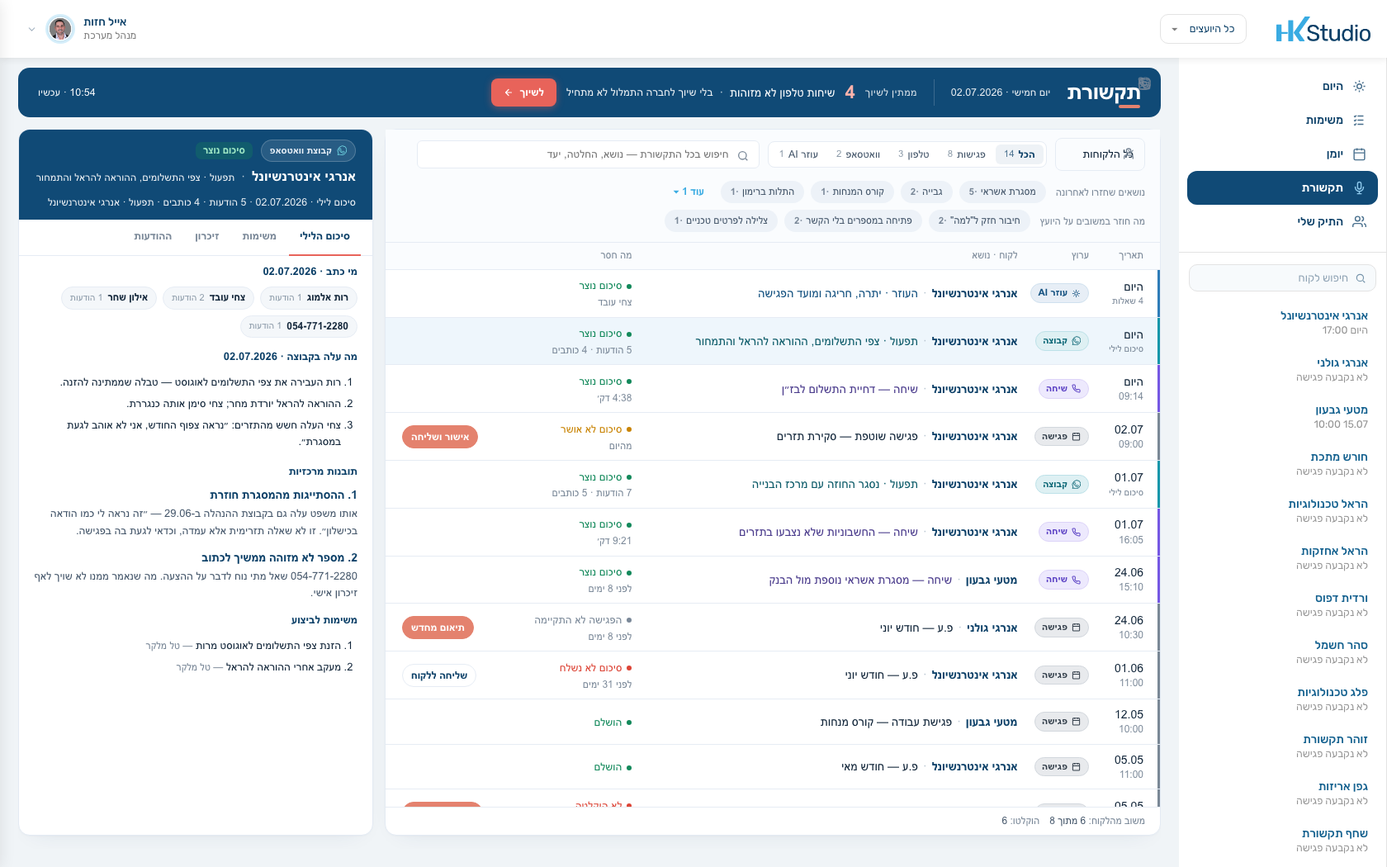
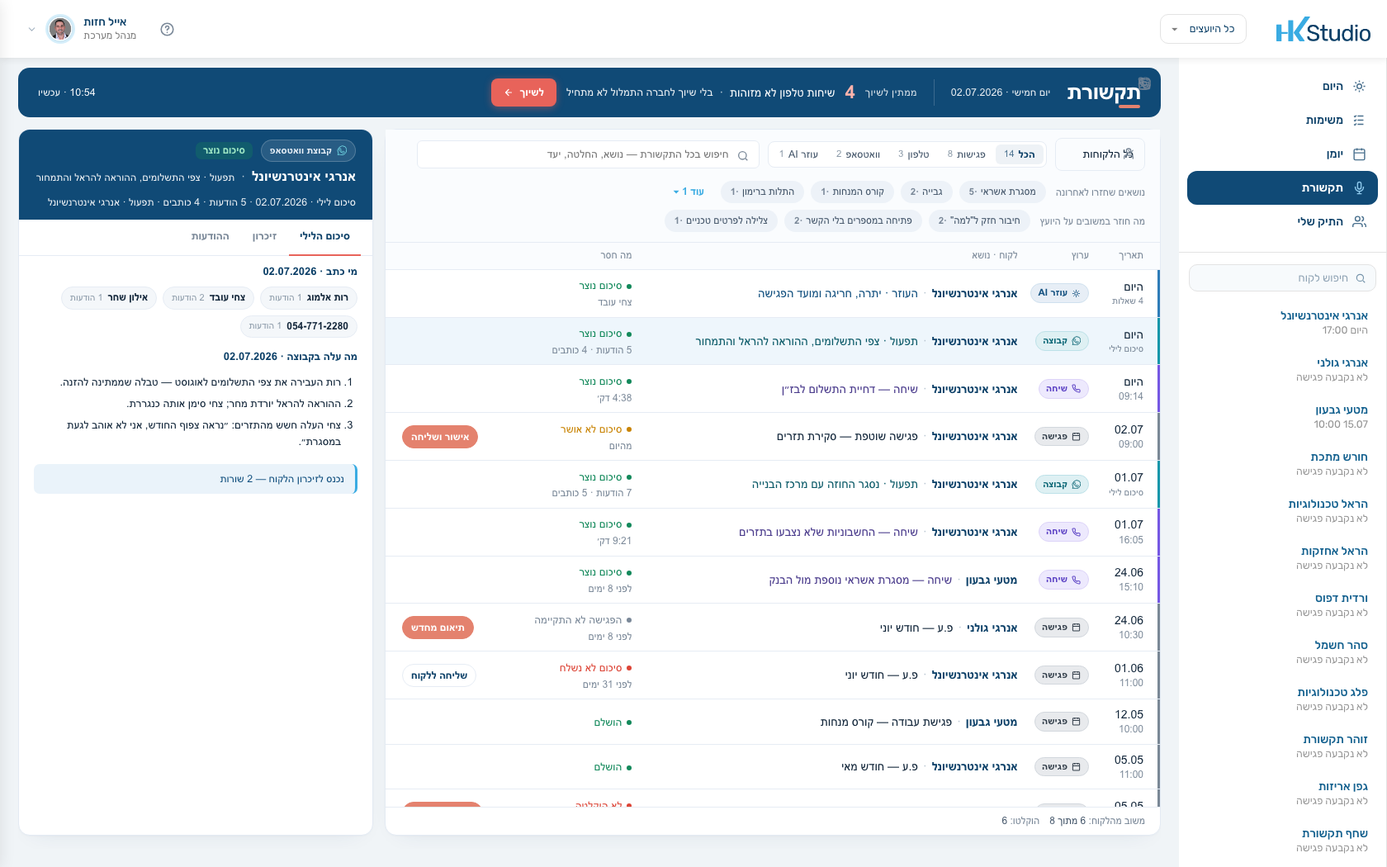
HK: קבוצת וואטסאפ אינה פגישה — סיכום והחלטת זיכרון, וזה הכל
נתתי לסיכום הקבוצה את תוצרי הפגישה — משימות ותובנות — וזה over-modeling
שסותר את מה שהמערכת כבר עושה: כל הודעה שדורשת פעולה מתויגת בשעתה
(«משימת הזנה» · «נגררת» · «בקשה פתוחה») ונכנסת לתפעול, בזמן אמת. הג׳וב
הלילי לא מחלץ אותן שוב.

לכן לסיכום קבוצה שני תוצרים בלבד: מה עלה באותו יום, והחלטה האם משהו
נכנס לזיכרון — ואם לא, זה נאמר במפורש, כי שקט הוא מידע. הזירה מציגה
עכשיו «סיכום הלילי · זיכרון · ההודעות» ושורת ההחלטה, בניסוח שכבר קיים
ב-js/ops.js · mgSumHtml.

ותוקן גם הפתיח של האפיון: הג׳וב אינו «ממלא את מסך תקשורת» — הוא מזין
אחת־עשרה נקודות (הזיכרון, מוקד תשומת הלב, הרדאר, ההכנה לפגישה, החיפוש,
תקציר הבוקר, התפעול היומי ועוד). נוספה מפת צרכנים ועיקרון שישי: כשל
בג׳וב הוא כשל רוחבי ולא כשל של מסך.

Changed region(s): [[0.031, 0.5181, 0.2476, 0.6705], [0.1548, 0.701, 0.2476, 0.7924]]

diff --git a/docs/NIGHTLY_COMM_SPEC.html b/docs/NIGHTLY_COMM_SPEC.html
@@ -172,20 +172,32 @@ textarea.ed:focus{background:#fff;box-shadow:inset 0 0 0 2px #CFE3F5}
   </div>
 </div>
 
-<script id="src" type="text/markdown"># הג׳וב הלילי של התקשורת — אפיון למימוש
+<script id="src" type="text/markdown"># הג׳וב הלילי — אפיון למימוש
 
-הג׳וב שממלא את מסך **תקשורת** (`docs/adv3/meetings.html`) — רשימה אחת של
-ארבעה ערוצים: פגישה · שיחת טלפון · קבוצת וואטסאפ · עוזר AI, ולכל פריט
-זירה עם אותם תוצרים: סיכום, משימות, זיכרון, ולפי הערוץ גם משוב, תמלול
-או ההודעות עצמן.
+בליבו הג׳וב עושה שני דברים בלבד — **סיכום** ו**עדכון זיכרון** — וכל
+השאר נגזרות שלהם: המשימות והתובנות הן חלק מפלט הסיכום, ה-embeddings הם
+אינדקס עליו, וההשלמות הן ריצה חוזרת על מה שנפל.
 
-בליבו הג׳וב עושה שני דברים — **סיכום** ו**עדכון זיכרון** — וכל השאר
-נגזרות שלהם: המשימות והתובנות הן חלק מפלט הסיכום, ה-embeddings הם
-אינדקס על הסיכומים, וההשלמות הן ריצה חוזרת על מה שנפל.
+**ומכיוון שהזיכרון הוא צומת מרכזי במערכת, הג׳וב לא ממלא מסך אחד.**
+הוא מזין אחת־עשרה נקודות, וזה מה שהופך כשל שלו לכשל רוחבי:
 
-נקודת המוצא: לא כל התקשורת נוצרת בלילה. אירוע עם סוף מעובד בסופו;
-הג׳וב הלילי סוגר את היום — ואת המספרים של הבוקר סוגר **ג׳וב הבוקר**
-(רענון הבנקים), שמסתיים בכתיבת "תקציר הבוקר" (§2א).
+| מה נצרך | מי צורך אותו | איפה בקוד |
+|---|---|---|
+| שורות `wa` ו-`ai` והסטטוסים | מסך **תקשורת** | `docs/adv3/meetings.html · ARENA` |
+| מסמכי הזיכרון (חברה + אישי) | **זיכרון החברה** | `js/memory.js · MEM_CATS` |
+| עדכוני הזיכרון של היום | **מוקד תשומת הלב** במסך «היום» — פיד אחד עם ההתראות מהמספרים | `js/alerts.js · FEED` ← `MEM_UPDATES` |
+| מגמת שביעות רצון ודפוסי שימוש | **רדאר שימור והרחבה** — churn ו-upsell | `js/alerts.js · ADV_RADAR` |
+| הזיכרון החי | **ההכנה לפגישה**, שנגזרת מחדש בכל פתיחה | `js/meetings.js · renderPrepView()` |
+| משימות מוצעות | **משימות** של היועץ ושל הלקוח | `js/ops.js · ADV_TASKS` |
+| `comm_embeddings` | **החיפוש הסמנטי** ברשימה ובהכנה | §4 |
+| מוני הלא־מזוהות | **רצועת «ממתין לשיוך»** ותור השיוך | `docs/adv3/meetings.html · stripQ()` |
+| הזיכרון + מספרי הבוקר | **תקציר הבוקר** בדשבורד הלקוח | `docs/cli/dashboard.html · .brief` |
+| הזיכרון בהקשר | **העוזר של הלקוח** בוואטסאפ | `docs/cli/ai.html` |
+| `nightly_runs` | **תפעול יומי** — מה רץ, מה נפל, וכמה זמן | `adminScreens/daily-ops.html` |
+
+נקודת המוצא: לא הכל נוצר בלילה. אירוע עם סוף מעובד בסופו; הג׳וב הלילי
+סוגר את היום — ואת המספרים של הבוקר סוגר **ג׳וב הבוקר** (רענון
+הבנקים), שמסתיים בכתיבת "תקציר הבוקר" (§2א).
 
 ---
 
@@ -206,6 +218,11 @@ textarea.ed:focus{background:#fff;box-shadow:inset 0 0 0 2px #CFE3F5}
 5. **הג׳וב אידמפוטנטי.** ריצה חוזרת על אותו יום (אחרי כשל, או ידנית)
    מחליפה את התוצרים של אותו יום — לא מכפילה שורות, משימות או רשומות
    זיכרון.
+6. **כשל בג׳וב הוא כשל רוחבי, לא כשל של מסך.** מי שנשען עליו הוא לא רק
+   מסך התקשורת אלא גם הזיכרון, מוקד תשומת הלב, הרדאר, ההכנה לפגישה,
+   החיפוש ותקציר הבוקר. לכן כל כשל נרשם ב-`nightly_runs`, עולה לדוח
+   התפעול היומי, ונכנס לתור ההשלמות של הלילה הבא — ואף מסך לא מציג
+   נתון ישן כאילו הוא עדכני.
 
 ---
 
@@ -213,12 +230,23 @@ textarea.ed:focus{background:#fff;box-shadow:inset 0 0 0 2px #CFE3F5}
 
 רץ פר חברה, בחלון 02:00–03:00 (הפרוטוטיפ מציג `רץ ב-02:10`).
 
-1. **מסכם את קבוצות הוואטסאפ שהיו פעילות באותו יום.**
-   קבוצה בלי הודעות היום — אין שורה, אין "סיכום ריק". קבוצה עם הודעות
-   מקבלת שורת `wa` אחת ליום עם: סיכום (מה עלה בקבוצה), תובנות, משימות
-   מוצעות, שורות זיכרון, וההודעות עצמן. אם היו הודעות אך אין מה להוסיף
-   לזיכרון — זה נאמר במפורש (*"לא נמצא מה להוסיף לזיכרון"*), כי שקט הוא
-   מידע.
+1. **מסכם את קבוצות הוואטסאפ שהיו פעילות באותו יום — סיכום והחלטת
+   זיכרון, וזה הכל.**
+   **קבוצה אינה פגישה, ולכן אין לה את תוצרי הפגישה.** לפגישה יש מפגש
+   שנגמר ומייצר משימות; לקבוצה יש יום, והמשימות שבתוכה כבר טופלו בזמן
+   אמת — כל הודעה שדורשת פעולה מתויגת בשעתה (`משימת הזנה` · `בקשה
+   פתוחה` · `נגררת` · `טבלת הזנה`) ונכנסת לתפעול. הג׳וב הלילי לא מחלץ
+   אותן שוב.
+
+   לכן לסיכום קבוצה יש **שני תוצרים בלבד**: מה עלה באותו יום, והחלטה
+   האם משהו מזה נכנס לזיכרון. אם היו הודעות ואין מה להוסיף — זה נאמר
+   במפורש (*"לא נמצא מה להוסיף לזיכרון"*), כי שקט הוא מידע. קבוצה בלי
+   הודעות היום — אין שורה, אין "סיכום ריק".
+
+   **הסיכום מוצג בשני מקומות, והוא אותו סיכום:** בתוך הקבוצה עצמה,
+   כשורה בין יום ליום (`js/ops.js · mgSumHtml`), ובמסך התקשורת כשורת
+   `wa` אחת ליום. אין שני תוצרים ואין שתי כתיבות — יש אחד, שנקרא
+   מהמקום שנוח לקרוא בו.
 2. **מסכם את ערוץ הוואטסאפ של כל יוזר מול העוזר באותו יום — עיבוד
    פר יוזר, שורה אחת לחברה.**
    **בסקופ: ערוץ הוואטסאפ בלבד** — השיחה האחת הפתוחה תמיד של היוזר מול

diff --git a/docs/adv3/meetings.html b/docs/adv3/meetings.html
@@ -446,6 +446,11 @@ tr.m.wa .nm{color:#0B5A68}
 .wa-msg .hd b{font-size:12.5px;font-weight:600;color:var(--navy)}
 .wa-msg .hd i{font-style:normal;font-size:11px;color:var(--muted-2,#8b9aa8)}
 .wa-msg p{grid-column:1/-1;margin:0;font-size:13px;line-height:1.65;color:var(--ink)}
+/* החלטת הזיכרון — התוצר השני והאחרון של סיכום קבוצה. שקט הוא מידע,
+   ולכן «לא נמצא מה להוסיף» מוצג במפורש ולא נעלם. */
+.wa-dec{margin-top:14px;padding:9px 13px;border-radius:7px;font-size:12.5px;font-weight:500;
+  background:#EAF3FA;color:#12507F;border-inline-start:3px solid #39ABE2}
+.wa-dec.none{background:var(--bg,#F7F9FB);color:var(--muted-2,#8b9aa8);border-inline-start-color:#CBD6E0}
 /* הטאבים ירדו מהנייבי. הכהה שמור לכותרת — מי הלקוח ומה הערוץ —
    והניווט בתוך התוצרים הוא כבר תוכן, ותוכן חי על לבן. */
 .ar-tabs{display:flex;gap:2px;padding:0 14px;background:var(--white);flex:none;
@@ -886,10 +891,6 @@ tr.m.wa .nm{color:#0B5A68}
       base:['רות העבירה את צפי התשלומים לאוגוסט — טבלה שממתינה להזנה.',
             'ההוראה להראל יורדת מחר; צחי סימן אותה כנגררת.',
             'צחי העלה חשש מהתזרים: ״נראה צפוף החודש, אני לא אוהב לגעת במסגרת״.'],
-      insights:[{t:'ההסתייגות מהמסגרת חוזרת',d:'אותו משפט עלה גם בקבוצת ההנהלה ב-29.06 — ״זה נראה לי כמו הודאה בכישלון״. זו לא שאלה תזרימית אלא עמדה, וכדאי לגעת בה בפגישה.'},
-                {t:'מספר לא מזוהה ממשיך לכתוב',d:'054-771-2280 שאל מתי נוח לדבר על ההצעה. מה שנאמר ממנו לא שויך לאף זיכרון אישי.'}],
-      tasks:[{t:'הזנת צפי התשלומים לאוגוסט מרות',who:'טל מלקר'},
-             {t:'מעקב אחרי ההוראה להראל',who:'טל מלקר'}],
       mem:[['כאבי לקוח','צחי מסתייג מהגדלת מסגרת — תופס אותה כהודאה בכישלון'],
            ['שיתוף פעולה','צפי התשלומים מגיע מרות, לא מצחי']],
       msgs:[['רות אלמוג','08:55','מעבירה את צפי התשלומים לאוגוסט [טבלה]'],
@@ -904,9 +905,6 @@ tr.m.wa .nm{color:#0B5A68}
       base:['צחי צירף את אישור ההעברה ללדובק; חסר עדיין מועד פירעון לשיק 21036.',
             'נסגר החוזה עם מרכז הבנייה — צפי תוספת למחזור.',
             'רות הבהירה שהיא הכתובת לחומר, לא צחי.'],
-      insights:[{t:'החוזה נסגר ולא נצבע בתזרים',d:'מרכז הבנייה הוזכר בקבוצה ב-12:44 ואין לו ביטוי בתחזית. צריך תנאי תשלום כדי לדעת לאיזה חודש התקבול נופל.'}],
-      tasks:[{t:'מועד פירעון לשיק 21036',who:'צחי עובד'},
-             {t:'צביעת החוזה עם מרכז הבנייה בתזרים',who:'טל מלקר'}],
       mem:[['אירועים מהותיים','נסגר החוזה עם מרכז הבנייה — צפי תוספת למחזור'],
            ['שיתוף פעולה','החומר מגיע מרות אלמוג, לא מצחי'],
            ['סגנון תקשורת','רות מעדיפה מיילים מסודרים על וואטסאפ']],
@@ -1085,6 +1083,10 @@ tr.m.wa .nm{color:#0B5A68}
           ${a.insights.map((x,i)=>`<div class="ar-ins2"><b>${i+1}. ${x.t}</b><p>${x.d}</p></div>`).join('')}`:''}
         ${a.tasks&&a.tasks.length?`<h4>משימות לביצוע</h4>
           <ol class="ar-ol">${a.tasks.map(k=>`<li>${k.t} <span class="ar-who2">— ${k.who}</span></li>`).join('')}</ol>`:''}
+        ${a.kind==='wa'?`<div class="wa-dec ${a.mem&&a.mem.length?'':'none'}">${
+          a.mem&&a.mem.length
+            ? 'נכנס לזיכרון הלקוח — '+a.mem.length+' שורות'
+            : 'לא נמצא מה להוסיף לזיכרון'}</div>`:''}
       </div>`;
     }else if(_arTab==='tasks'){
       body=`<div class="ar-sec"><div class="ar-tksub"><b>להלן המשימות המוצעות ללקוח, יש לאשרן, ורק לאחר מכן ליצור את המשימות.</b></div>

diff --git a/docs/NIGHTLY_COMM_SPEC.md b/docs/NIGHTLY_COMM_SPEC.md
@@ -1,17 +1,29 @@
-# הג׳וב הלילי של התקשורת — אפיון למימוש
+# הג׳וב הלילי — אפיון למימוש
 
-הג׳וב שממלא את מסך **תקשורת** (`docs/adv3/meetings.html`) — רשימה אחת של
-ארבעה ערוצים: פגישה · שיחת טלפון · קבוצת וואטסאפ · עוזר AI, ולכל פריט
-זירה עם אותם תוצרים: סיכום, משימות, זיכרון, ולפי הערוץ גם משוב, תמלול
-או ההודעות עצמן.
+בליבו הג׳וב עושה שני דברים בלבד — **סיכום** ו**עדכון זיכרון** — וכל
+השאר נגזרות שלהם: המשימות והתובנות הן חלק מפלט הסיכום, ה-embeddings הם
+אינדקס עליו, וההשלמות הן ריצה חוזרת על מה שנפל.
 
-בליבו הג׳וב עושה שני דברים — **סיכום** ו**עדכון זיכרון** — וכל השאר
-נגזרות שלהם: המשימות והתובנות הן חלק מפלט הסיכום, ה-embeddings הם
-אינדקס על הסיכומים, וההשלמות הן ריצה חוזרת על מה שנפל.
+**ומכיוון שהזיכרון הוא צומת מרכזי במערכת, הג׳וב לא ממלא מסך אחד.**
+הוא מזין אחת־עשרה נקודות, וזה מה שהופך כשל שלו לכשל רוחבי:
 
-נקודת המוצא: לא כל התקשורת נוצרת בלילה. אירוע עם סוף מעובד בסופו;
-הג׳וב הלילי סוגר את היום — ואת המספרים של הבוקר סוגר **ג׳וב הבוקר**
-(רענון הבנקים), שמסתיים בכתיבת "תקציר הבוקר" (§2א).
+| מה נצרך | מי צורך אותו | איפה בקוד |
+|---|---|---|
+| שורות `wa` ו-`ai` והסטטוסים | מסך **תקשורת** | `docs/adv3/meetings.html · ARENA` |
+| מסמכי הזיכרון (חברה + אישי) | **זיכרון החברה** | `js/memory.js · MEM_CATS` |
+| עדכוני הזיכרון של היום | **מוקד תשומת הלב** במסך «היום» — פיד אחד עם ההתראות מהמספרים | `js/alerts.js · FEED` ← `MEM_UPDATES` |
+| מגמת שביעות רצון ודפוסי שימוש | **רדאר שימור והרחבה** — churn ו-upsell | `js/alerts.js · ADV_RADAR` |
+| הזיכרון החי | **ההכנה לפגישה**, שנגזרת מחדש בכל פתיחה | `js/meetings.js · renderPrepView()` |
+| משימות מוצעות | **משימות** של היועץ ושל הלקוח | `js/ops.js · ADV_TASKS` |
+| `comm_embeddings` | **החיפוש הסמנטי** ברשימה ובהכנה | §4 |
+| מוני הלא־מזוהות | **רצועת «ממתין לשיוך»** ותור השיוך | `docs/adv3/meetings.html · stripQ()` |
+| הזיכרון + מספרי הבוקר | **תקציר הבוקר** בדשבורד הלקוח | `docs/cli/dashboard.html · .brief` |
+| הזיכרון בהקשר | **העוזר של הלקוח** בוואטסאפ | `docs/cli/ai.html` |
+| `nightly_runs` | **תפעול יומי** — מה רץ, מה נפל, וכמה זמן | `adminScreens/daily-ops.html` |
+
+נקודת המוצא: לא הכל נוצר בלילה. אירוע עם סוף מעובד בסופו; הג׳וב הלילי
+סוגר את היום — ואת המספרים של הבוקר סוגר **ג׳וב הבוקר** (רענון
+הבנקים), שמסתיים בכתיבת "תקציר הבוקר" (§2א).
 
 ---
 
@@ -32,6 +44,11 @@
 5. **הג׳וב אידמפוטנטי.** ריצה חוזרת על אותו יום (אחרי כשל, או ידנית)
    מחליפה את התוצרים של אותו יום — לא מכפילה שורות, משימות או רשומות
    זיכרון.
+6. **כשל בג׳וב הוא כשל רוחבי, לא כשל של מסך.** מי שנשען עליו הוא לא רק
+   מסך התקשורת אלא גם הזיכרון, מוקד תשומת הלב, הרדאר, ההכנה לפגישה,
+   החיפוש ותקציר הבוקר. לכן כל כשל נרשם ב-`nightly_runs`, עולה לדוח
+   התפעול היומי, ונכנס לתור ההשלמות של הלילה הבא — ואף מסך לא מציג
+   נתון ישן כאילו הוא עדכני.
 
 ---
 
@@ -39,12 +56,23 @@
 
 רץ פר חברה, בחלון 02:00–03:00 (הפרוטוטיפ מציג `רץ ב-02:10`).
 
-1. **מסכם את קבוצות הוואטסאפ שהיו פעילות באותו יום.**
-   קבוצה בלי הודעות היום — אין שורה, אין "סיכום ריק". קבוצה עם הודעות
-   מקבלת שורת `wa` אחת ליום עם: סיכום (מה עלה בקבוצה), תובנות, משימות
-   מוצעות, שורות זיכרון, וההודעות עצמן. אם היו הודעות אך אין מה להוסיף
-   לזיכרון — זה נאמר במפורש (*"לא נמצא מה להוסיף לזיכרון"*), כי שקט הוא
-   מידע.
+1. **מסכם את קבוצות הוואטסאפ שהיו פעילות באותו יום — סיכום והחלטת
+   זיכרון, וזה הכל.**
+   **קבוצה אינה פגישה, ולכן אין לה את תוצרי הפגישה.** לפגישה יש מפגש
+   שנגמר ומייצר משימות; לקבוצה יש יום, והמשימות שבתוכה כבר טופלו בזמן
+   אמת — כל הודעה שדורשת פעולה מתויגת בשעתה (`משימת הזנה` · `בקשה
+   פתוחה` · `נגררת` · `טבלת הזנה`) ונכנסת לתפעול. הג׳וב הלילי לא מחלץ
+   אותן שוב.
+
+   לכן לסיכום קבוצה יש **שני תוצרים בלבד**: מה עלה באותו יום, והחלטה
+   האם משהו מזה נכנס לזיכרון. אם היו הודעות ואין מה להוסיף — זה נאמר
+   במפורש (*"לא נמצא מה להוסיף לזיכרון"*), כי שקט הוא מידע. קבוצה בלי
+   הודעות היום — אין שורה, אין "סיכום ריק".
+
+   **הסיכום מוצג בשני מקומות, והוא אותו סיכום:** בתוך הקבוצה עצמה,
+   כשורה בין יום ליום (`js/ops.js · mgSumHtml`), ובמסך התקשורת כשורת
+   `wa` אחת ליום. אין שני תוצרים ואין שתי כתיבות — יש אחד, שנקרא
+   מהמקום שנוח לקרוא בו.
 2. **מסכם את ערוץ הוואטסאפ של כל יוזר מול העוזר באותו יום — עיבוד
    פר יוזר, שורה אחת לחברה.**
    **בסקופ: ערוץ הוואטסאפ בלבד** — השיחה האחת הפתוחה תמיד של היוזר מול

diff --git a/docs/ADVISORS_FEATURES.md b/docs/ADVISORS_FEATURES.md
@@ -117,7 +117,7 @@
 |---|---|---|
 | פגישה | סיכום · משימות · זיכרון · משוב · תמלול | צ׳יפ פחם |
 | שיחת טלפון | סיכום · משימות · זיכרון · תמלול | צ׳יפ סגול |
-| קבוצת וואטסאפ | סיכום לילי · משימות · זיכרון · ההודעות | צ׳יפ טורקיז |
+| קבוצת וואטסאפ | סיכום לילי · החלטת זיכרון · ההודעות | צ׳יפ טורקיז |
 | עוזר AI | סיכום ההתכתבות · משימות · זיכרון · ההתכתבות | צ׳יפ נייבי |
 
 **בורר הלקוח הוא הבקרה הראשית:** סינון לקוח מציג עליו את הכל. זו הסיבה
@@ -127,10 +127,16 @@
 
 ![קבוצה](shots/adv-comm-wa.png)
 
-לקבוצה אין התחלה וסוף — יש לה **יום**. ג'וב לילי סוגר כל יום: מי כתב,
-מה עלה, אילו משימות נולדו, ומה נכנס לזיכרון. מה שמייחד קבוצה משיחה הוא
-*מי כתב* — וזה מה שמאפשר תובנות כמו "צחי חוזר על אותה שאלה כשאין לו
-אישור בכתב". דובר לא מזוהה מסוכם ברמת החברה בלבד ולא נכנס לזיכרון אישי.
+לקבוצה אין התחלה וסוף — יש לה **יום** — ואין לה את תוצרי הפגישה.
+המשימות שבתוכה כבר טופלו בזמן אמת: כל הודעה שדורשת פעולה תויגה בשעתה
+(«משימת הזנה» · «נגררת» · «בקשה פתוחה») ונכנסה לתפעול. לכן הג׳וב הלילי
+סוגר את היום בשני תוצרים בלבד — **מה עלה, ומה נכנס לזיכרון** — ואם לא
+נכנס כלום, גם זה נאמר במפורש.
+
+**אותו סיכום מוצג בשני מקומות:** בתוך הקבוצה עצמה, כשורה בין יום ליום,
+ובמסך התקשורת. מה שמייחד קבוצה משיחה הוא *מי כתב* — וזה מה שמאפשר
+לזהות ש"צחי חוזר על אותה שאלה כשאין לו אישור בכתב". דובר לא מזוהה
+מסוכם ברמת החברה בלבד ולא נכנס לזיכרון אישי.
 
 ### 3.3 שיחות טלפון — כולל מה שלא זוהה
 

diff --git a/PROJECT_CONTEXT.md b/PROJECT_CONTEXT.md
@@ -1308,7 +1308,7 @@ PDF מהמערכת. ב-PDF דיגיטלי נשארת בדיקת ביקורת: ח
 |---|---|---|---|
 | פגישה | `meet` (ברירת מחדל) | סיכום · משימות · זיכרון · משוב · תמלול | צ׳יפ אפור |
 | שיחת טלפון | `call` | אותם חמישה | צ׳יפ סגול |
-| קבוצת וואטסאפ | `wa` | סיכום לילי · משימות · זיכרון · **ההודעות** | צ׳יפ טורקיז |
+| קבוצת וואטסאפ | `wa` | סיכום לילי · החלטת זיכרון · **ההודעות** | צ׳יפ טורקיז |
 | עוזר AI | `ai` | סיכום ההתכתבות · משימות · זיכרון · **ההתכתבות** | צ׳יפ נייבי |
 
 **עוזר AI הוא ערוץ, לא לוג של המוצר.** זה המקום היחיד שבו הלקוח מדבר
@@ -1320,7 +1320,12 @@ PDF מהמערכת. ב-PDF דיגיטלי נשארת בדיקת ביקורת: ח
 (אותו קאסט, אותן הודעות, המונח «סיכום לילי») וההתכתבות עם העוזר על
 `docs/cli/ai.html · WA_CHAT`.
 
-**למה קבוצה היא לא פגישה.** לפגישה ולשיחה יש התחלה וסוף; לקבוצה יש **יום**.
+**למה קבוצה היא לא פגישה — ולמה אין לה את תוצרי הפגישה.** לפגישה יש
+מפגש שנגמר ומייצר משימות; לקבוצה יש **יום**, והמשימות שבתוכה כבר טופלו
+בזמן אמת — כל הודעה שדורשת פעולה מתויגת בשעתה (`משימת הזנה` · `נגררת` ·
+`בקשה פתוחה`) ונכנסת לתפעול. לכן לסיכום קבוצה שני תוצרים בלבד: מה עלה,
+והחלטה האם משהו נכנס לזיכרון — והוא מוצג גם בתוך הקבוצה בין יום ליום
+וגם במסך התקשורת, כאותו סיכום.
 לכן הישות היא "סיכום היום", אין לה משוב על היועץ (אין מפגש לבקר), ויש בה
 דבר שאין בשתי האחרות — **מי כתב**. זה מוצג כשורת כותבים בראש הסיכום, ובטאב
 ההודעות כל הודעה נושאת שם ושעה.
